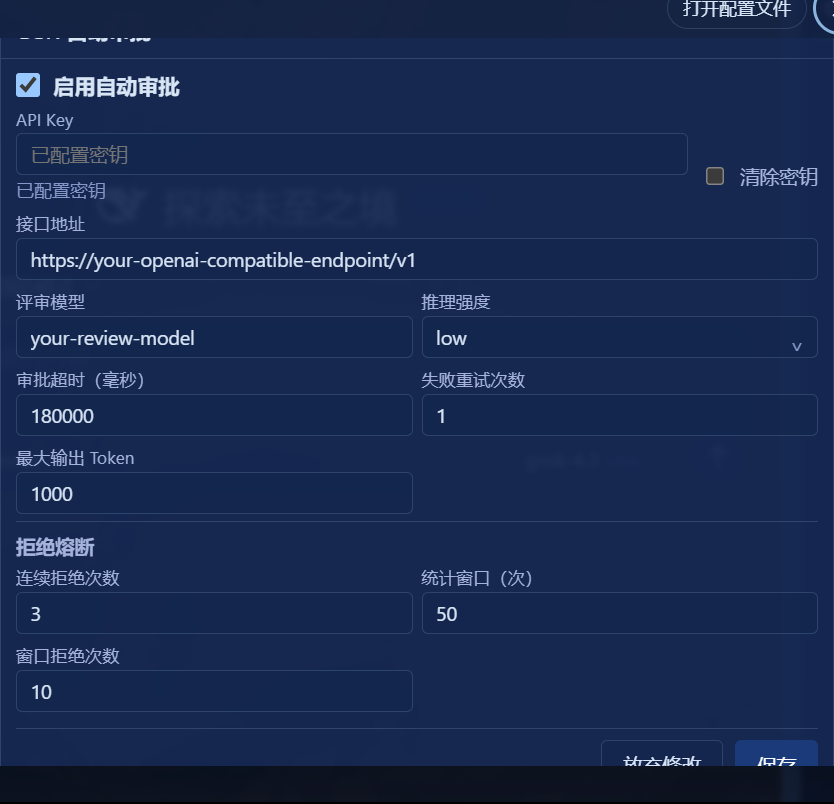
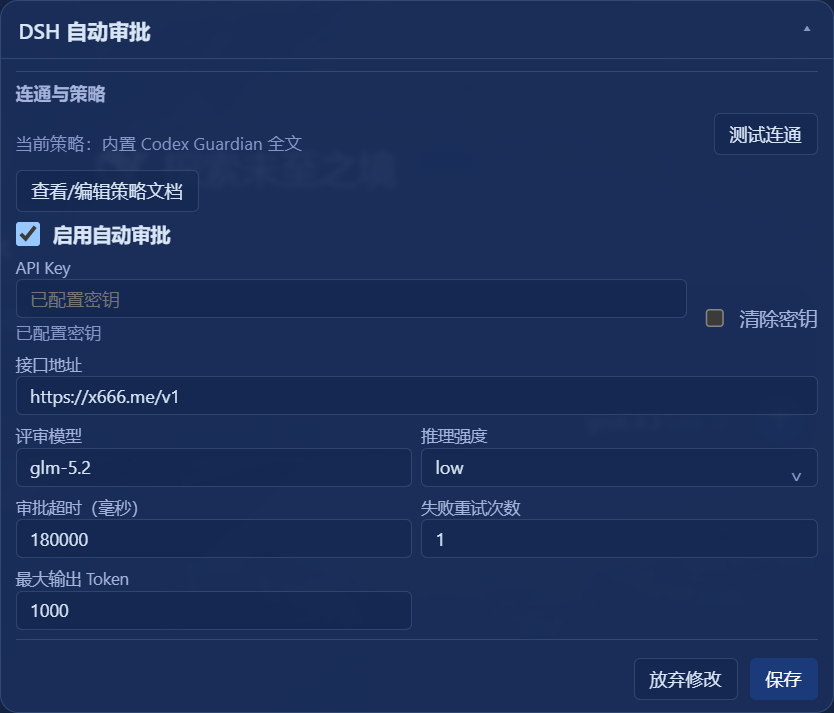
ui: align card styling with sibling plugin cards; README: connectivity test + policy editor screenshots

diff --git a/src/client/index.js b/src/client/index.js
@@ -6,7 +6,7 @@ const SETTINGS_ROUTE = "/_dsh/auto-approval/settings";
 const POLICY_ROUTE = "/_dsh/auto-approval/policy";
 const TEST_ROUTE = "/_dsh/auto-approval/test";
 
-const css = ".daa-card{border:1px solid var(--dsw-alias-border-l2);background:var(--dsw-alias-bg-layer-2);border-radius:6px;list-style:none;overflow:hidden}.daa-header{width:100%;min-height:52px;color:inherit;font:inherit;text-align:left;cursor:pointer;background:transparent;border:0;display:flex;align-items:center;justify-content:space-between;padding:12px 14px}.daa-header:hover{background:var(--dsw-alias-interactive-bg-hover)}.daa-title{color:var(--dsw-alias-label-primary);font-weight:600}.daa-chevron{color:var(--dsw-alias-label-tertiary);font-size:13px;transition:transform .12s}.daa-chevron-open{transform:rotate(180deg)}.daa-body{border-top:1px solid var(--dsw-alias-border-l2);padding:14px}.daa-loading,.daa-error{font-size:13px;line-height:1.5}.daa-loading{color:var(--dsw-alias-label-tertiary)}.daa-error{color:var(--dsw-alias-label-danger,#c93f48);margin-bottom:10px}.daa-form{display:flex;flex-direction:column;gap:14px}.daa-toggle{display:flex;align-items:center;gap:9px;color:var(--dsw-alias-label-primary);font-size:14px;font-weight:600;cursor:pointer}.daa-toggle input{width:16px;height:16px;margin:0}.daa-grid{display:grid;grid-template-columns:minmax(0,1fr) minmax(0,1fr);gap:12px}.daa-field{display:flex;flex-direction:column;gap:6px;min-width:0}.daa-field-wide{grid-column:1/-1}.daa-label{color:var(--dsw-alias-label-secondary);font-size:13px}.daa-input,.daa-select{width:100%;height:34px;box-sizing:border-box;border:1px solid var(--dsw-alias-border-l2);border-radius:4px;background:var(--dsw-alias-bg-layer-1);color:var(--dsw-alias-label-primary);font:inherit;font-size:13px;padding:0 9px}.daa-input:focus,.daa-select:focus{outline:2px solid var(--dsw-alias-button-info-fill);outline-offset:1px}.daa-key-row{display:grid;grid-template-columns:minmax(0,1fr) auto;gap:8px;align-items:end}.daa-status{color:var(--dsw-alias-label-tertiary);font-size:12px}.daa-clear{display:flex;align-items:center;gap:7px;color:var(--dsw-alias-label-secondary);font-size:13px;white-space:nowrap;height:34px}.daa-section{border-top:1px solid var(--dsw-alias-border-l2);padding-top:12px}.daa-section-title{color:var(--dsw-alias-label-secondary);font-size:13px;font-weight:600;margin-bottom:10px}.daa-actions{display:flex;justify-content:flex-end;gap:8px;border-top:1px solid var(--dsw-alias-border-l2);padding-top:12px}.daa-button{height:34px;border:1px solid var(--dsw-alias-border-l2);border-radius:4px;background:var(--dsw-alias-bg-layer-1);color:var(--dsw-alias-label-primary);font:inherit;font-size:13px;padding:0 14px;cursor:pointer}.daa-button:hover{background:var(--dsw-alias-interactive-bg-hover)}.daa-button-primary{border-color:var(--dsw-alias-button-info-fill);background:var(--dsw-alias-button-info-fill);color:var(--dsw-alias-button-info-label,#fff)}.daa-button:disabled{cursor:not-allowed;opacity:.55}@media(max-width:680px){.daa-grid{grid-template-columns:minmax(0,1fr)}.daa-field-wide{grid-column:auto}.daa-key-row{grid-template-columns:minmax(0,1fr)}.daa-clear{height:auto}.daa-actions{justify-content:stretch}.daa-button{flex:1}}@media(prefers-reduced-motion:reduce){.daa-chevron{transition:none}}.daa-select-wrap{position:relative}.daa-select-trigger{display:flex;align-items:center;justify-content:space-between;text-align:left;cursor:pointer}.daa-select-open{border-color:var(--dsw-alias-button-info-fill);box-shadow:0 0 0 2px rgba(120,180,255,.22)}.daa-select-chevron{color:var(--dsw-alias-label-tertiary);font-size:16px;line-height:1;transform:translateY(-1px)}.daa-select-menu{position:absolute;z-index:20;top:calc(100% + 4px);left:0;right:0;max-height:220px;overflow:auto;padding:4px;border:1px solid var(--dsw-alias-border-l2);border-radius:6px;background:var(--dsw-alias-bg-layer-2);box-shadow:0 8px 24px #0008}.daa-select-option{display:block;width:100%;border:0;border-radius:4px;background:transparent;color:var(--dsw-alias-label-primary);font:inherit;font-size:13px;text-align:left;padding:8px 9px;cursor:pointer}.daa-select-option:hover,.daa-select-option:focus-visible{background:var(--dsw-alias-interactive-bg-hover);outline:none}.daa-select-option-selected{background:var(--dsw-alias-interactive-bg-hover-accent);color:var(--dsw-alias-label-primary-foreground,var(--dsw-alias-label-primary))}";
+const css = ".daa-card{border:0.666667px solid rgba(168,200,232,.18);background:rgba(28,52,100,.64);border-radius:12px;list-style:none;overflow:hidden}.daa-header{width:100%;min-height:52px;color:inherit;font:inherit;text-align:left;cursor:pointer;background:transparent;border:0;display:flex;align-items:center;justify-content:space-between;padding:14px 16px;border-radius:12px}.daa-header:hover{background:var(--dsw-alias-interactive-bg-hover)}.daa-title{color:var(--dsw-alias-label-primary);font-weight:600}.daa-chevron{color:var(--dsw-alias-label-tertiary);font-size:13px;transition:transform .12s}.daa-chevron-open{transform:rotate(180deg)}.daa-body{border-top:0.666667px solid rgba(168,200,232,.18);padding:14px 16px}.daa-loading,.daa-error{font-size:13px;line-height:1.5}.daa-loading{color:var(--dsw-alias-label-tertiary)}.daa-error{color:var(--dsw-alias-label-danger,#c93f48);margin-bottom:10px}.daa-form{display:flex;flex-direction:column;gap:14px}.daa-toggle{display:flex;align-items:center;gap:9px;color:var(--dsw-alias-label-primary);font-size:14px;font-weight:600;cursor:pointer}.daa-toggle input{width:16px;height:16px;margin:0}.daa-grid{display:grid;grid-template-columns:minmax(0,1fr) minmax(0,1fr);gap:12px}.daa-field{display:flex;flex-direction:column;gap:6px;min-width:0}.daa-field-wide{grid-column:1/-1}.daa-label{color:var(--dsw-alias-label-secondary);font-size:13px}.daa-input,.daa-select{width:100%;height:34px;box-sizing:border-box;border:1px solid var(--dsw-alias-border-l2);border-radius:4px;background:var(--dsw-alias-bg-layer-1);color:var(--dsw-alias-label-primary);font:inherit;font-size:13px;padding:0 9px}.daa-input:focus,.daa-select:focus{outline:2px solid var(--dsw-alias-button-info-fill);outline-offset:1px}.daa-key-row{display:grid;grid-template-columns:minmax(0,1fr) auto;gap:8px;align-items:end}.daa-status{color:var(--dsw-alias-label-tertiary);font-size:12px}.daa-clear{display:flex;align-items:center;gap:7px;color:var(--dsw-alias-label-secondary);font-size:13px;white-space:nowrap;height:34px}.daa-section{border-top:1px solid var(--dsw-alias-border-l2);padding-top:12px}.daa-section-title{color:var(--dsw-alias-label-secondary);font-size:13px;font-weight:600;margin-bottom:10px}.daa-actions{display:flex;justify-content:flex-end;gap:8px;border-top:1px solid var(--dsw-alias-border-l2);padding-top:12px}.daa-button{height:34px;border:1px solid var(--dsw-alias-border-l2);border-radius:4px;background:var(--dsw-alias-bg-layer-1);color:var(--dsw-alias-label-primary);font:inherit;font-size:13px;padding:0 14px;cursor:pointer}.daa-button:hover{background:var(--dsw-alias-interactive-bg-hover)}.daa-button-primary{border-color:var(--dsw-alias-button-info-fill);background:var(--dsw-alias-button-info-fill);color:var(--dsw-alias-button-info-label,#fff)}.daa-button:disabled{cursor:not-allowed;opacity:.55}@media(max-width:680px){.daa-grid{grid-template-columns:minmax(0,1fr)}.daa-field-wide{grid-column:auto}.daa-key-row{grid-template-columns:minmax(0,1fr)}.daa-clear{height:auto}.daa-actions{justify-content:stretch}.daa-button{flex:1}}@media(prefers-reduced-motion:reduce){.daa-chevron{transition:none}}.daa-select-wrap{position:relative}.daa-select-trigger{display:flex;align-items:center;justify-content:space-between;text-align:left;cursor:pointer}.daa-select-open{border-color:var(--dsw-alias-button-info-fill);box-shadow:0 0 0 2px rgba(120,180,255,.22)}.daa-select-chevron{color:var(--dsw-alias-label-tertiary);font-size:16px;line-height:1;transform:translateY(-1px)}.daa-select-menu{position:absolute;z-index:20;top:calc(100% + 4px);left:0;right:0;max-height:220px;overflow:auto;padding:4px;border:1px solid var(--dsw-alias-border-l2);border-radius:6px;background:var(--dsw-alias-bg-layer-2);box-shadow:0 8px 24px #0008}.daa-select-option{display:block;width:100%;border:0;border-radius:4px;background:transparent;color:var(--dsw-alias-label-primary);font:inherit;font-size:13px;text-align:left;padding:8px 9px;cursor:pointer}.daa-select-option:hover,.daa-select-option:focus-visible{background:var(--dsw-alias-interactive-bg-hover);outline:none}.daa-select-option-selected{background:var(--dsw-alias-interactive-bg-hover-accent);color:var(--dsw-alias-label-primary-foreground,var(--dsw-alias-label-primary))}";
 if (typeof document !== "undefined" && document.querySelector('style[data-plugin-css="dsh-auto-approval"]') === null) {
   const style = document.createElement("style");
   style.dataset.pluginCss = "dsh-auto-approval";

diff --git a/README.zh-CN.md b/README.zh-CN.md
@@ -54,6 +54,10 @@ dsh plugin --profile web add /path/to/dsh-auto-approval
 
 ![settings](docs/screenshot-settings.png)
 
+「连通与策略」区提供一键连通性测试（发一条真实探针评审，返回判决/风险/授权分级/理由/延迟——一发验证端点、模型、Key、API 风格和策略文档）和策略文档编辑器（内置 Codex Guardian 全文，可编辑替换，下一次评审即生效，无需重启）：
+
+![策略编辑器](docs/screenshot-policy.png)
+
 - **接口地址**：任何 OpenAI 兼容端点（如 `https://your-endpoint/v1`）
 - **评审模型**：模型名（建议用与主模型不同源的模型，交叉评审）
 - **API Key**：存入 DSH 凭据库（`DSH_AUTO_APPROVAL_API_KEY`），不落仓库
